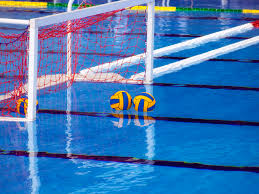
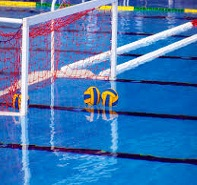
general.css added for normalization porpuses and croped image added (gimp)

diff --git a/sports.html b/sports.html
@@ -4,6 +4,7 @@
     <meta charset="UTF-8">
     <meta name="viewport" content="width=device-width, initial-scale=1.0">
     <title>Sports</title>
+    <link rel="stylesheet" href="general.css">
     <link rel="stylesheet" href="sports.css">
 </head>
 
@@ -108,7 +109,7 @@
                     Our school has more than 10 cano boats, but this is not so much because
                     the canos are just allows single person.
                 </p>
-                <img src="kano.jpg" alt="">
+                <img style="padding-top:15px ;" src="kano.jpg" alt="">
             </div>
         </div>
 <!-- Pool sports -->
@@ -129,7 +130,7 @@
                     lots of race experiences, because in a semester you can 
                     attend at least 10 races, and lots of swimming camps.
                 </p>
-                <img src="havuz.jpg" alt="#">
+                <img style="padding-top: 30px;" src="havuz.jpg" alt="#">
             </div>
             
             <div id="Water_Polo" class="box">
@@ -155,7 +156,7 @@
     </p>
 </div>
 <div class="s-part ">
-    <div id="Trakening" class="box">
+    <div  id="Trakening" class="box">
         <h3>Traking</h3>
         <p>
             As you know Heybeliada is has lots of forest, so you can walk in
@@ -163,7 +164,7 @@
             sports helps you be in shape and relaxing your mind.This team has
             some collective events that whole scholl can attend.
         </p>
-        <img src="kosu.jpg" alt="#">
+        <img style="padding-top:20px ;" src="kosu.jpg" alt="#">
     </div>
     <div id="Ball_Sports" class="box">
         <h3>Ball Sports</h3>
@@ -186,7 +187,7 @@
             attend one of these branches according to their abiltiy.
 
         </p>
-        <img src="sırık.jpg" alt="">
+        <img style="padding-top:32px ;" src="sırıkcrop.jpg" alt="">
     </div>
 </div>
 

diff --git a/sports.css b/sports.css
@@ -1,71 +1,21 @@
-*{
-    margin: 0;
- 
-  
-}
-.outer-log{
-	width: 150px;
-	height: 95px;
-	/* border: 8px solid;
-	border-color: rgba(0, 0, 0, 0.87);
-	border-radius: 30px; */
-	margin-right: 20px;
-	float: right;
-} 
 
 
-.outer-log img{
-	width: 110px; height: 90px;
-	 border: 8px #2980a371 solid;
-	 border-radius: 20px;
-
-}
 
 
-body .container{
-	
-        width: auto;
-        height: auto;
-       
-    
-        
-    }
-    
-    body .nav-bar {
-    border: 5px ;
-	height: 23px;
-	background-color:#2980a371;
-	border-radius: 10px;
-	float: left;
-	list-style: none;
-   padding-left: 0;
-    margin-left: 1%;
-    margin-top: 1%;
-    padding-top: 5px;
-   
-
-}
-
-body .nav-bar li {
-        display: inline-block;
-}
-body .nav-bar li a {
-        color:white;
-        text-decoration: none;
-        padding: 5px 20px;
-        font-family: poppins;
-        font-size: 16px;
-        text-transform: uppercase;
-}
-.nav-bar li a:hover {
-        background: #fff;
-        border-radius: 8px;
-        color: #333;
-}
 body{
 
     background:rgba(112, 190, 211, 0.267);
 }
+
+body .container{
+	
+  width: auto;
+  height: auto;
+ 
+
+  
+}
+
 .main-sports{
 
     padding-top: 80px;
@@ -103,7 +53,7 @@ padding-bottom: 20px;
     text-decoration: none;
     
     font-family: poppins;
-    font-size: 15px;
+    font-size: 12px;
     text-transform: uppercase;
     
     
@@ -115,8 +65,8 @@ padding-bottom: 20px;
     text-align: center;
     background:#2980a371;
     /* color: white; */
-    width: 160px;
-    height: 120px;
+    width: 30%;
+    height: 130px;
     border: 1px solid black;
     border-radius: 5px;
     margin: 5px;

diff --git a/about.css b/about.css
@@ -1,74 +1,11 @@
-*{
-    margin: 0;
-    font-family: 'Times New Roman', Times, serif;
- 
-  
-}
-.outer-log{
-	width: 150px;
-	height: 95px;
-	/* border: 8px solid;
-	border-color: rgba(0, 0, 0, 0.87);
-	border-radius: 30px; */
-	margin-right: 20px;
-	float: right;
-} 
-
-
-.outer-log img{
-	width: 110px; height: 90px;
-	 border: 8px #2980a371 solid;
-	 border-radius: 20px;
-
-}
-
-
-body .container{
-	
-        width: auto;
-        height: auto;
-       
-    
-        
-    }
-    
-body .nav-bar {
-    border: 5px ;
-	height: 23px;
-	background-color:#2980a371;
-	border-radius: 10px;
-	float: left;
-	list-style: none;
-   padding-left: 0;
-    margin-left: 1%;
-    margin-top: 1%;
-    padding-top: 5px;
-   
-
-}
-
-body .nav-bar li {
-        display: inline-block;
-}
-body .nav-bar li a {
-        color:white;
-        text-decoration: none;
-        padding: 5px 20px;
-        font-family: poppins;
-        font-size: 16px;
-        text-transform: uppercase;
-}
-.nav-bar li a:hover {
-        background: #fff;
-        border-radius: 8px;
-        color: #333;
-}
 
 body{
 
     text-align: center;
     background:rgba(112, 190, 211, 0.267);
 }
+
+
 body h1{
 
     

diff --git a/general.css b/general.css
@@ -1,0 +1,57 @@
+*{
+    margin: 0;
+ 
+  
+}
+.outer-log{
+	width: 150px;
+	height: 95px;
+	/* border: 8px solid;
+	border-color: rgba(0, 0, 0, 0.87);
+	border-radius: 30px; */
+	margin-right: 20px;
+	float: right;
+} 
+
+
+.outer-log img{
+	width: 110px; height: 90px;
+	 border: 8px #2980a371 solid;
+	 border-radius: 20px;
+
+}
+
+
+
+    
+  body .nav-bar {
+  border: 5px ;
+	height: 23px;
+	background-color:#2980a371;
+	border-radius: 10px;
+	float: left;
+	list-style: none;
+  padding-left: 0;
+  margin-left: 1%;
+  margin-top: 1%;
+  padding-top: 5px;
+   
+
+}
+
+body .nav-bar li {
+        display: inline-block;
+}
+body .nav-bar li a {
+        color:white;
+        text-decoration: none;
+        padding: 5px 20px;
+        font-family: poppins;
+        font-size: 16px;
+        text-transform: uppercase;
+}
+.nav-bar li a:hover {
+        background: #fff;
+        border-radius: 8px;
+        color: #333;
+}

diff --git a/prep.css b/prep.css
@@ -1,51 +1,3 @@
-*{
-    margin: 0;
- 
-  
-}
-
-
-
-body .container{
-	
-        width: auto;
-        height: auto;
-       
-    
-        
-    }
-    
-    body .nav-bar {
-    border: 5px ;
-	height: 23px;
-	background-color:#2980a371;
-	border-radius: 10px;
-	float: left;
-	list-style: none;
-   padding-left: 0;
-    margin-left: 1%;
-    margin-top: 1%;
-    padding-top: 5px;
-   
-
-}
-
-body .nav-bar li {
-        display: inline-block;
-}
-body .nav-bar li a {
-        color:white;
-        text-decoration: none;
-        padding: 5px 20px;
-        font-family: poppins;
-        font-size: 16px;
-        text-transform: uppercase;
-}
-.nav-bar li a:hover {
-        background: #fff;
-        border-radius: 8px;
-        color: #333;
-}
 
 body{
 
@@ -74,6 +26,17 @@ body h1{
 	 border-radius: 20px;
 
 }
+
+
+body .container{
+	
+    width: auto;
+    height: auto;
+   
+
+    
+}
+
 
 
 table, th, td {

diff --git a/index.html b/index.html
@@ -15,11 +15,11 @@
                     Turkish Naval High School
                     (Project)
                 </h1>
-                <img src="#" alt="">
+              
             </div>
         </div>
         <div class="outer-log">
-            <img src="g1394.png" alt="You can nor find my own design" > 
+            <img src="g1394.png" alt="Logo" > 
         
     </div>
     <div class="container">

diff --git a/prep.html b/prep.html
@@ -4,6 +4,7 @@
     <meta charset="UTF-8">
     <meta name="viewport" content="width=device-width, initial-scale=1.0">
     <title>Prep Class</title>
+    <link rel="stylesheet" href="general.css">
     <link rel="stylesheet" href="prep.css">
 </head>
 

diff --git a/about.html b/about.html
@@ -4,6 +4,7 @@
     <meta charset="UTF-8">
     <meta name="viewport" content="width=device-width, initial-scale=1.0">
     <title>About Us</title>
+    <link rel="stylesheet" href="general.css">
     <link rel="stylesheet" href="about.css">
 </head>
 
